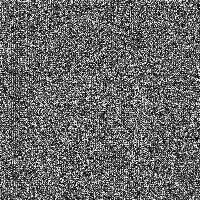
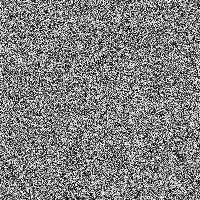
reciever ok

Changed region(s): [[0.0, 0.0, 1.0, 1.0]]

diff --git a/src/receiver/reconstruction.py b/src/receiver/reconstruction.py
@@ -1,0 +1,218 @@
+import src.receiver.decryption as dec
+import numpy as np
+import src.util.image_util as iu
+import src.util.path_util as pu
+import math
+import src.util.encrypt_util as eu
+import src.encryption as en
+
+class Receiver:
+
+    def __init__(self, img: np.ndarray = None, LM: np.ndarray = None, predict = None):
+        self.encrypted_img = img
+        self.LM = LM
+        self.PE_stars = []
+        self.PEAs = []
+        self.PEAs_whole = []
+        self.PEE = []
+        self.Is = []
+        self.Is_whole = []
+        self.Ps = [None] * 4
+        self.res_img = []
+        if predict is None:
+            self.predict_method = self.predict_method1
+        else:
+            self.predict_method = predict
+        if img is not None:
+            self.H, self.W = img.shape
+
+    def data_extraction(self):
+        """
+        取出数据
+        Returns:
+        """
+        i, j, length = 0, 0, 0
+        self.data = int(0)
+        self.ans = np.copy(self.encrypted_img)
+        while i < self.H:
+            while j < self.W:
+                if self.LM[i, j] == 1:
+                    data_k = int(self.ans[i, j] / 128)
+                    # print(data_k)
+                    self.data = self.data | data_k
+                    length += 1
+                    if length >= 104:
+                        self.data = bin(self.data)[-1:1:-1]
+                        print(self.data)
+                        print(int(self.data, 2))
+                        return
+                    self.data <<= 1
+                    self.ans[i, j] = self.ans[i,j] - data_k * 128
+                j += 1
+            i, j = i + 1, 0
+
+    def decryption(self):
+        self.decrypted_img = dec.decryptioner(self.ans, eu.SECRET_KEY, 256).astype(np.uint8)
+        # print(self.img)
+        # en_test_img = eu.encrypt(self.img, eu.SECRET_KEY, 256)
+        # print(en_test_img)
+        # de_test_img = dec.decryptioner(en_test_img, eu.SECRET_KEY, 256)
+        # print(de_test_img)
+        print(self.decrypted_img)
+        Receiver.save(self.decrypted_img, 'decrypted.png')
+
+    def recomposition(self):
+        """
+        将解密后的图片逆向还原
+        其中得到PEE与PEA的顺序调换（直接利用lm）
+        Returns:
+        """
+        #先还原正负号得到PEE
+        self.PEE = self.decrypted_img.copy().astype(np.int)
+        i, j = 0, 0
+        while i < self.H:
+            while j < self.W:
+                if not i % 2 and not j % 2:
+                    j += 1
+                    continue
+                if not self.LM[i, j]:
+                    self.PEE[i, j] -= 64
+                    self.PEE[i, j] = -self.PEE[i, j]
+                j += 1
+            i += 1
+            j = 0
+        Receiver.save(self.PEE, 'PEE.png')
+
+        #将图片分解为四部分
+        #得到PE_stars(PEA)
+        h, w = int(self.H / 2), int(self.W / 2)
+        for i in range(4):
+            self.PE_stars.append(np.zeros((h, w), np.int))
+        for i in range(h):
+            for j in range(w):
+                self.PE_stars[0][i, j] = self.PEE[2 * i, 2 * j]
+                self.PE_stars[1][i, j] = self.PEE[2 * i, 2 * j + 1]
+                self.PE_stars[2][i, j] = self.PEE[2 * i + 1, 2 * j]
+                self.PE_stars[3][i, j] = self.PEE[2 * i + 1, 2 * j + 1]
+        self.PEAs_whole = Receiver.composition(self.PE_stars[0], self.PE_stars[1], self.PE_stars[2], self.PE_stars[3])
+        Receiver.save(self.PEAs_whole, 'PEAs.png')
+
+        #由I[0]获得预测矩阵Ps
+        for i in range(0, 4):
+            self.Is.append(self.PE_stars[i])
+        self.Ps[0] = self.Is[0]
+        self.__predict01()
+        self.__predict02()
+        self.__predict03()
+        self.Ps_whole = Receiver.composition(self.Ps[0], self.Ps[1], self.Ps[2], self.Ps[3])
+        Receiver.save(self.Ps_whole, 'Ps.png')
+
+        #PEEs加上预测矩阵Ps
+        #得到Is
+        for j in range(1, 4):
+            self.Is[j] += self.Ps[j]
+        self.Is_whole = Receiver.composition(self.Is[0], self.Is[1], self.Is[2], self.Is[3])
+        Receiver.save(self.Is_whole, 'Is.png')
+
+        #将Is四部分按原放回
+        #得到复原图res
+        self.res_img = np.zeros((self.H, self.W), np.uint8)
+        h, w = int(self.H / 2), int(self.W / 2)
+        for i in range(h):
+            for j in range(w):
+                self.res_img[2 * i, 2 * j] = self.Is[0][i, j]
+                self.res_img[2 * i, 2 * j + 1] = self.Is[1][i, j]
+                self.res_img[2 * i + 1, 2 * j] = self.Is[2][i, j]
+                self.res_img[2 * i + 1, 2 * j + 1] = self.Is[3][i, j]
+        Receiver.save(self.res_img, 'res.png')
+
+    @staticmethod
+    def predict_method1(a, b):
+        return math.ceil((a + b) / 2)
+
+    @staticmethod
+    def predict_method2(a, b):
+        return math.ceil(math.sqrt(a * b))
+
+    def __predict01(self):
+        I0 = self.Is[0]
+        h, w = I0.shape
+        self.Ps[1] = np.zeros((h, w), np.int)
+        for i in range(h):
+            for j in range(w):
+                if i < h - 1:
+                    self.Ps[1][i, j] = self.predict_method(I0[i, j], I0[i + 1, j])
+                else:
+                    self.Ps[1][i, j] = I0[i, j]
+
+    def __predict02(self):
+        I0 = self.Is[0]
+        h, w = I0.shape
+        self.Ps[2] = np.zeros((h, w), np.int)
+        for i in range(h):
+            for j in range(w):
+                if j < w - 1:
+                    self.Ps[2][i, j] = self.predict_method(I0[i, j + 1], I0[i, j])
+                else:
+                    self.Ps[2][i, j] = I0[i, j]
+
+    def __predict03(self):
+        I0 = self.Is[0]
+
+        def H1(i, j):
+            return abs(int(I0[i, j]) - int(I0[i + 1, j + 1]))
+
+        def H2(i, j):
+            return abs(int(I0[i, j + 1]) - int(I0[i + 1, j]))
+
+        h, w = I0.shape
+        self.Ps[3] = np.zeros((h, w), np.int)
+
+        for i in range(h - 1):
+            for j in range(w - 1):
+                if H1(i, j) < H2(i, j):
+                    self.Ps[3][i, j] = self.predict_method(I0[i, j], I0[i + 1, j + 1])
+                else:
+                    self.Ps[3][i, j] = self.predict_method(I0[i, j + 1], I0[i + 1, j])
+
+        for i in range(h - 1):
+            self.Ps[3][i, w - 1] = self.predict_method(I0[i, w - 1], I0[i + 1, w - 1])
+
+        for j in range(w - 1):
+            self.Ps[3][h - 1, j] = self.predict_method(I0[h - 1, j], I0[h - 1, j + 1])
+
+        self.Ps[3][h - 1, w - 1] = I0[h - 1, w - 1]
+
+    @staticmethod
+    def save(img, name):
+        """
+        :param pth: 存储的路径
+        :return:
+        """
+        out = pu.path_join(root_path, pu.REC_PATH)
+        pth = pu.path_join(out, name)
+        iu.save_img(img, pth)
+
+    @staticmethod
+    def composition(img0, img1, img2, img3):
+        a = np.hstack((img0, img1))
+        b = np.hstack((img2, img3))
+        all = np.vstack((a, b))
+        return all
+
+def __test(img, LM):
+    e = Receiver(img, LM)
+    e.data_extraction()
+    e.decryption()
+    e.recomposition()
+
+if __name__ == '__main__':
+    root_path = pu.get_root_path()
+    file1_name = "image.png"
+    file1_path = pu.path_join(root_path, pu.OUTPUT_PATH, file1_name)
+    file2_name = "LM.png"
+    file2_path = pu.path_join(root_path, pu.OUTPUT_PATH, file2_name)
+
+    encrypted_img = iu.read_img(file1_path, iu.READ_GRAY)
+    LM = iu.read_img(file2_path, iu.READ_GRAY)
+    __test(encrypted_img, LM)

diff --git a/src/receiver/decryption.py b/src/receiver/decryption.py
@@ -1,7 +1,7 @@
 import numpy
 import math
 
-from src.encryption_2d_lscm.InitialStateGeneration import init_confusion_matix, init_states
+from src.encryption_2d_lscm.InitialStateGeneration import init_confusion_matrix, init_states
 
 # 测试数据
 '''
@@ -11,17 +11,7 @@ from src.encryption_2d_lscm.InitialStateGeneration import init_confusion_matix, 
 F
 
 '''
-M = 4
-N = 5
-F = 256
-res = numpy.array([[7, 5, 2, 17, 11],
-                   [9, 3, 4, 14, 15],
-                   [6, 13, 1, 8, 10],
-                   [19, 18, 12, 16, 20]])
-S = numpy.array([[0.96, 0.50, 0.08, 0.75, 0.97],
-                 [0.44, 0.05, 0.84, 0.72, 0.33],
-                 [0.06, 0.68, 0.99, 0.58, 0.38],
-                 [0.70, 0.45, 0.07, 0.12, 0.18]])
+
 secretKey = {
     "x0": [1] * 13 + [0] * 13 + [1] * 13 + [0] * 13,
     "y0": [0] * 13 + [1] * 13 + [0] * 13 + [1] * 13,
@@ -31,11 +21,6 @@ secretKey = {
     "a3": [1, 0, 1, 0, 1, 0, 1, 1, 0, 1, 0, 1, 1, 0, 1, 1, 1, 0, 0, 1, 0, 1, 1, 0, 1],
     "a4": [1, 0, 1, 1, 0, 1, 1, 0, 1, 1, 1, 0, 1, 1, 0, 0, 1, 0, 1, 0, 1, 1, 0, 1, 1]
 }
-
-
-def get_LM(res, M, N):
-    pass
-
 
 def reverse_row_diffusion(C, init_matix, F, M, N):
     """
@@ -51,11 +36,11 @@ def reverse_row_diffusion(C, init_matix, F, M, N):
     res = numpy.zeros_like(C)
     for i in range(G):
         if i >= 2:
-            tmp = (C[:, i] - C[:, i - 1] - C[:, i - 2] + numpy.floor(init_matix[:, i] * (2 ** 32))) % F
+            tmp = (C[:, i] - C[:, i - 1] - C[:, i - 2] - numpy.floor(init_matix[:, i] * (2 ** 32))) % F
         elif i == 1:
-            tmp = (C[:, 1] - C[:, 0] - res[:, G - 1] + numpy.floor(init_matix[:, i] * (2 ** 32))) % F
+            tmp = (C[:, 1] - C[:, 0] - res[:, G - 1] - numpy.floor(init_matix[:, i] * (2 ** 32))) % F
         else:
-            tmp = (C[:, 0] + res[:, G - 1] + res[:, G - 2] + numpy.floor(init_matix[:, i] * (2 ** 32))) % F
+            tmp = (C[:, 0] + res[:, G - 1] + res[:, G - 2] - numpy.floor(init_matix[:, i] * (2 ** 32))) % F
 
         for m in range(M):
             res[m][i] = tmp[m]
@@ -77,11 +62,11 @@ def reverse_col_diffusion(C, init_matix, F, M, N):
     res = numpy.zeros_like(C)
     for i in range(G):
         if i >= 2:
-            tmp = (C[i] - C[i - 1] - C[- 2] + numpy.floor(init_matix[i] * (2 ** 32))) % F
+            tmp = (C[i] - C[i - 1] - C[i- 2] - numpy.floor(init_matix[i] * (2 ** 32))) % F
         elif i == 1:
-            tmp = (C[1] - C[0] - res[G - 1] + numpy.floor(init_matix[i] * (2 ** 32))) % F
+            tmp = (C[1] - C[0] - res[G - 1] - numpy.floor(init_matix[i] * (2 ** 32))) % F
         else:
-            tmp = (C[0] + res[G - 1] + res[G - 2] + numpy.floor(init_matix[i] * (2 ** 32))) % F
+            tmp = (C[0] + res[G - 1] + res[G - 2] - numpy.floor(init_matix[i] * (2 ** 32))) % F
 
         for m in range(N):
             res[i][m] = tmp[m]
@@ -146,12 +131,23 @@ def reverse_permutation(T, init_matix, M, N):
     return res
 
 
-if __name__ == "__main__":
-    init_matixs = [None] * 4
-    init_matixs = init_confusion_matix(M, N, init_states(secretKey))
+def decryptioner(res, S, F):
+    """
+
+    Args:
+        res: 输入矩阵
+        S: 密钥
+        F: pixel
+
+    Returns:解密后的矩阵
+
+    """
+    global C2
+    M, N = res.shape
+    init_matixs = init_confusion_matrix(M, N, init_states(S))
     # 取出LM
-    get_LM(res, M, N)
     for i in range(0, 4):
         # 反向扩散
-        res = reverse_diffusion(res, init_matixs[i], F, M, N)
-        res = reverse_permutation(res,init_matixs[i],M, N)
+        C1 = reverse_diffusion(res, init_matixs[i], F, M, N)
+        C2 = reverse_permutation(C1, init_matixs[i], M, N)
+    return C2

diff --git a/src/encryption/encryptor.py b/src/encryption/encryptor.py
@@ -1,9 +1,9 @@
-import cv2
 import numpy as np
 import src.util.image_util as iu
 import src.util.path_util as pu
 import math
 import src.util.encrypt_util as eu
+import src.receiver.decryption as dec
 
 __TEST_IMAGE = np.array([[97, 97, 114, 162, 189, 180, 187, 192],
                          [87, 119, 123, 156, 174, 182, 184, 189],
@@ -167,6 +167,8 @@ class Encryptor:
     def encryption(self):
         self.encrypted_I = eu.encrypt(self.res_img, eu.SECRET_KEY, 256)
         self.encrypted_LM = eu.encrypt(self.LM, eu.SECRET_KEY, 256)
+        print(self.res_img)
+        print(self.LM)
         return self.encrypted_I
 
     def max_length(self):
@@ -180,6 +182,7 @@ class Encryptor:
         i, j, k = 0, 0, 0
         self.ans = np.copy(self.encrypted_I)
         l = data.bit_length()
+        # print(l)
         while i < self.H:
             while j < self.W:
                 if self.LM[i, j]:
@@ -187,6 +190,8 @@ class Encryptor:
                     self.ans[i, j] = self.ans[i, j] % 128 + data_k * 128
                     data >>= 1
                     k += 1
+                    if k >= l:
+                        return
                 j += 1
             i, j = i + 1, 0
         if k < l:
@@ -199,7 +204,8 @@ class Encryptor:
         :return:
         """
         iu.save_img(self.ans, pu.path_join(pth, "image.png"))
-        iu.save_img(self.encrypted_LM, pu.path_join(pth, "LM.png"))
+        # iu.save_img(self.encrypted_LM, pu.path_join(pth, "LM.png"))
+        iu.save_img(self.LM.astype(np.uint8), pu.path_join(pth, "LM.png"))
 
     def recomposition(self):
         """
@@ -229,11 +235,17 @@ def __test(file):
     e.recomposition()
     e.encryption()
     print(e.max_length())
-    e.data_hider(0b10000100000110001111111011100001000001100011111110111000010000011000111111101110000100000110001111111011)
+    e.data_hider(0b11000100000110001111111011100001000001100011111110111000010000011000111111101110000100000110001111111011)
     root_path = pu.get_root_path()
     out = pu.path_join(root_path, pu.OUTPUT_PATH)
     e.save(out)
-    iu.print_imgs(e.ans.astype(np.uint8), e.encrypted_LM.astype(np.uint8))
+    # lm = dec.decryptioner(e.encrypted_LM, dec.secretKey, 256)
+    # diff = e.LM.astype(np.int) - lm.astype(np.int)
+    # i = dec.decryptioner(e.encrypted_I, dec.secretKey, 256)
+    # diff_I = i - e.res_img
+    # print(np.sum(abs(diff)))
+    # print(np.sum(abs(diff_I)))
+    # iu.print_imgs(e.ans.astype(np.uint8), e.encrypted_LM.astype(np.uint8))
     pass
 
 
@@ -251,4 +263,4 @@ if __name__ == '__main__':
     # print(e1.error())
 
     # iu.print_imgs(e1.recomposition())
-    __test(gray_lena)
+    __test(__TEST_IMAGE)

diff --git a/src/util/path_util.py b/src/util/path_util.py
@@ -3,6 +3,7 @@ import os
 PROJECT_NAME = "ReversibleDataHiding"
 INPUT_PATH = "static" + os.sep + "input"
 OUTPUT_PATH = "static" + os.sep + "output"
+REC_PATH = "static" + os.sep + "reconstruction"
 
 
 def get_root_path() -> str:
